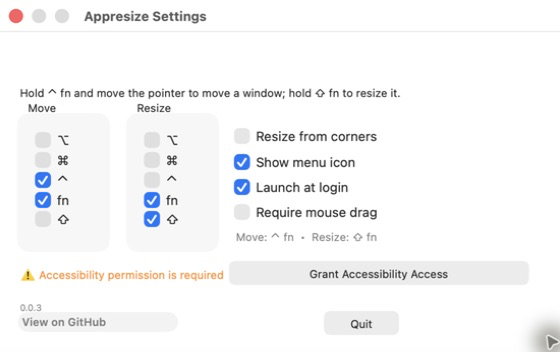
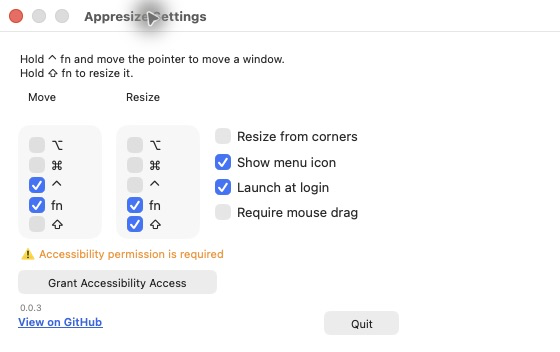
Polish settings and preserve accessibility grants

diff --git a/Appresize/PreferencesController.swift b/Appresize/PreferencesController.swift
@@ -25,7 +25,6 @@ class PreferencesController: NSWindowController {
     @IBOutlet weak var resizeFromNearestCorner: NSButton!
     @IBOutlet weak var resizeInfoLabel: NSTextField!
     @IBOutlet weak var quickStartLabel: NSTextField!
-    @IBOutlet weak var chordSummaryLabel: NSTextField!
     @IBOutlet weak var modifierConflictLabel: NSTextField!
 
     @IBOutlet weak var showMenuIcon: NSButton!
@@ -39,6 +38,7 @@ class PreferencesController: NSWindowController {
     
     override func windowDidLoad() {
         super.windowDidLoad()
+        updateModifierButtonStates()
         updateAccessibilityStatus()
         updateLaunchAtLoginState()
         updateCopy()
@@ -48,6 +48,7 @@ class PreferencesController: NSWindowController {
 
     override func showWindow(_ sender: Any?) {
         super.showWindow(sender)
+        updateModifierButtonStates()
         updateAccessibilityStatus()
         updateLaunchAtLoginState()
         updateCopy()
@@ -159,7 +160,15 @@ class PreferencesController: NSWindowController {
     private func setupGitHubLink() {
         githubLink.target = self
         githubLink.action = #selector(githubLinkClicked(_:))
-        githubLink.setAccessibilityRole(.button)
+        githubLink.isBordered = false
+        githubLink.attributedTitle = NSAttributedString(
+            string: "View on GitHub",
+            attributes: [
+                .foregroundColor: NSColor.linkColor,
+                .underlineStyle: NSUnderlineStyle.single.rawValue
+            ]
+        )
+        githubLink.setAccessibilityRole(.link)
         githubLink.setAccessibilityLabel("View Appresize on GitHub")
         githubLink.setAccessibilityHelp("Opens the Appresize source repository in your browser")
     }
@@ -177,25 +186,7 @@ extension PreferencesController: NSWindowDelegate {
     }
 
     func windowDidChangeOcclusionState(_ notification: Notification) {
-        do {
-            let prefs = Modifiers<Move>(forKey: .moveModifiers, defaults: Current.defaults())
-            let buttons = [moveAlt, moveCommand, moveControl, moveFn, moveShift]
-            let allModifiers: [Modifiers<Move>] = [.alt, .command, .control, .fn, .shift]
-            let buttonForModifier = Dictionary(uniqueKeysWithValues: zip(allModifiers, buttons))
-            for (modifier, button) in buttonForModifier {
-                button?.state = prefs.contains(modifier) ? .on : .off
-            }
-        }
-
-        do {
-            let prefs = Modifiers<Resize>(forKey: .resizeModifiers, defaults: Current.defaults())
-            let buttons = [resizeAlt, resizeCommand, resizeControl, resizeFn, resizeShift]
-            let allModifiers: [Modifiers<Resize>] = [.alt, .command, .control, .fn, .shift]
-            let buttonForModifier = Dictionary(uniqueKeysWithValues: zip(allModifiers, buttons))
-            for (modifier, button) in buttonForModifier {
-                button?.state = prefs.contains(modifier) ? .on : .off
-            }
-        }
+        updateModifierButtonStates()
 
         resizeFromNearestCorner?.state = Current.defaults().bool(forKey: DefaultsKeys.resizeFromNearestCorner.rawValue)
             ? .on : .off
@@ -211,6 +202,22 @@ extension PreferencesController: NSWindowDelegate {
         updateAccessibilityStatus()
         updateCopy()
         updateModifierConflictStatus()
+    }
+
+    func updateModifierButtonStates() {
+        let move = Modifiers<Move>(forKey: .moveModifiers, defaults: Current.defaults())
+        let moveButtons = [moveAlt, moveCommand, moveControl, moveFn, moveShift]
+        let moveModifiers: [Modifiers<Move>] = [.alt, .command, .control, .fn, .shift]
+        for (modifier, button) in zip(moveModifiers, moveButtons) {
+            button?.state = move.contains(modifier) ? .on : .off
+        }
+
+        let resize = Modifiers<Resize>(forKey: .resizeModifiers, defaults: Current.defaults())
+        let resizeButtons = [resizeAlt, resizeCommand, resizeControl, resizeFn, resizeShift]
+        let resizeModifiers: [Modifiers<Resize>] = [.alt, .command, .control, .fn, .shift]
+        for (modifier, button) in zip(resizeModifiers, resizeButtons) {
+            button?.state = resize.contains(modifier) ? .on : .off
+        }
     }
 
     func updateAccessibilityStatus(trusted trustedState: Bool? = nil) {
@@ -238,8 +245,7 @@ extension PreferencesController: NSWindowDelegate {
         let resize = Modifiers<Resize>(forKey: .resizeModifiers, defaults: Current.defaults())
         let moveChord = move.symbolDescription.isEmpty ? "no modifiers" : move.symbolDescription
         let resizeChord = resize.symbolDescription.isEmpty ? "no modifiers" : resize.symbolDescription
-        quickStartLabel?.stringValue = "Hold \(moveChord) and move the pointer to move a window; hold \(resizeChord) to resize it."
-        chordSummaryLabel?.stringValue = "Move: \(moveChord)  •  Resize: \(resizeChord)"
+        quickStartLabel?.stringValue = "Hold \(moveChord) and move the pointer to move a window.\nHold \(resizeChord) to resize it."
     }
 
     private func updateModifierConflictStatus() {

diff --git a/scripts/sign-local-app.swift b/scripts/sign-local-app.swift
@@ -1,0 +1,86 @@
+#!/usr/bin/env swift
+
+import Foundation
+
+enum SignError: LocalizedError {
+    case usage
+    case invalidApp(String)
+    case missingBundleIdentifier
+    case invalidBundleIdentifier(String)
+    case commandFailed(String)
+
+    var errorDescription: String? {
+        switch self {
+        case .usage:
+            return "usage: sign-local-app.swift APP_PATH"
+        case .invalidApp(let path):
+            return "app bundle not found: \(path)"
+        case .missingBundleIdentifier:
+            return "app bundle has no CFBundleIdentifier"
+        case .invalidBundleIdentifier(let identifier):
+            return "app bundle has an invalid CFBundleIdentifier: \(identifier)"
+        case .commandFailed(let message):
+            return message
+        }
+    }
+}
+
+func run(_ arguments: [String]) throws {
+    let process = Process()
+    let stderr = Pipe()
+    process.executableURL = URL(fileURLWithPath: "/usr/bin/codesign")
+    process.arguments = arguments
+    process.standardError = stderr
+    try process.run()
+    process.waitUntilExit()
+
+    guard process.terminationStatus == 0 else {
+        let output = String(
+            data: stderr.fileHandleForReading.readDataToEndOfFile(),
+            encoding: .utf8
+        ) ?? "codesign failed"
+        throw SignError.commandFailed(output.trimmingCharacters(in: .whitespacesAndNewlines))
+    }
+}
+
+func sign(appPath: String) throws {
+    let app = URL(fileURLWithPath: appPath).standardizedFileURL
+    var isDirectory: ObjCBool = false
+    guard FileManager.default.fileExists(atPath: app.path, isDirectory: &isDirectory),
+          isDirectory.boolValue,
+          app.pathExtension == "app" else {
+        throw SignError.invalidApp(app.path)
+    }
+
+    let infoURL = app.appendingPathComponent("Contents/Info.plist")
+    guard let info = NSDictionary(contentsOf: infoURL),
+          let bundleIdentifier = info["CFBundleIdentifier"] as? String,
+          !bundleIdentifier.isEmpty else {
+        throw SignError.missingBundleIdentifier
+    }
+
+    let allowed = CharacterSet.alphanumerics.union(CharacterSet(charactersIn: ".-"))
+    guard bundleIdentifier.unicodeScalars.allSatisfy(allowed.contains) else {
+        throw SignError.invalidBundleIdentifier(bundleIdentifier)
+    }
+
+    let requirement = "=designated => identifier \"\(bundleIdentifier)\""
+    try run([
+        "--force",
+        "--sign", "-",
+        "--requirements", requirement,
+        "--preserve-metadata=entitlements,flags",
+        app.path
+    ])
+    try run(["--verify", "--deep", "--strict", app.path])
+}
+
+do {
+    guard CommandLine.arguments.count == 2 else {
+        throw SignError.usage
+    }
+    try sign(appPath: CommandLine.arguments[1])
+} catch {
+    FileHandle.standardError.write(Data("local signing failed: \(error.localizedDescription)\n".utf8))
+    exit(1)
+}

diff --git a/AppresizeTests/PreferencesControllerTests.swift b/AppresizeTests/PreferencesControllerTests.swift
@@ -19,7 +19,6 @@ final class PreferencesControllerTests: XCTestCase {
         let resizeButtons = (0..<5).map { _ in NSButton() }
         let resizeInfoLabel = NSTextField(labelWithString: "")
         let quickStartLabel = NSTextField(labelWithString: "")
-        let chordSummaryLabel = NSTextField(labelWithString: "")
         let conflictLabel = NSTextField(labelWithString: "")
         let versionLabel = NSTextField(labelWithString: "")
 
@@ -35,19 +34,19 @@ final class PreferencesControllerTests: XCTestCase {
         controller.resizeShift = resizeButtons[4]
         controller.resizeInfoLabel = resizeInfoLabel
         controller.quickStartLabel = quickStartLabel
-        controller.chordSummaryLabel = chordSummaryLabel
         controller.modifierConflictLabel = conflictLabel
         controller.versionLabel = versionLabel
 
-        controller.updateCopy()
-        XCTAssertEqual(chordSummaryLabel.stringValue, "Move: ⌃ fn  •  Resize: ⇧ fn")
+        controller.updateModifierButtonStates()
+        XCTAssertEqual(moveButtons.map(\.state), [.off, .off, .on, .on, .off])
+        XCTAssertEqual(resizeButtons.map(\.state), [.off, .off, .off, .on, .on])
 
+        controller.updateCopy()
         controller.modifierClicked(resizeButtons[4])
 
-        XCTAssertEqual(chordSummaryLabel.stringValue, "Move: ⌃ fn  •  Resize: fn")
         XCTAssertEqual(
             quickStartLabel.stringValue,
-            "Hold ⌃ fn and move the pointer to move a window; hold fn to resize it."
+            "Hold ⌃ fn and move the pointer to move a window.\nHold fn to resize it."
         )
     }
 }

diff --git a/BACKLOG.md b/BACKLOG.md
@@ -130,7 +130,7 @@ The existing AppKit interface should follow current macOS naming, keyboard, and 
 
 - [x] T1 — Rename `Preferences…` to `Settings…`, wire the existing Command-Comma item, and title the window `Appresize Settings`.
 - [x] T2 — Remove irrelevant document-template menus and disable minimize for the Settings window.
-- [x] T3 — Display modifier keys as `⌘`, `⌥`, `⌃`, `⇧`, and `fn`, including a readable chord summary.
+- [x] T3 — Display modifier keys as `⌘`, `⌥`, `⌃`, `⇧`, and `fn`, including one readable shortcut sentence.
 - [x] T4 — Replace conflict-only beeps with the inline message `Move and Resize modifiers must differ.`
 - [x] T5 — Replace the mouse-only GitHub field with a keyboard- and VoiceOver-accessible link.
 - [x] T6 — Add standard `About Appresize` and `Report an Issue…` commands using existing app metadata and URLs.

diff --git a/README.md b/README.md
@@ -34,7 +34,7 @@ task copy:release # build and copy the app to /Applications
 Open the app `build/Build/Products/Release/Appresize.app`.
 
 > [!IMPORTANT]  
-> With a new build, you'll have to quit the previously built app, remove and re-add the app entry in MacOS settings Privacy & Security > Accessibility.
+> The build commands above use a stable designated requirement so replacing the app does not invalidate its existing Accessibility grant. Builds made before this change require one final remove-and-re-add in macOS Settings.
 
 ### Unsigned Release
 
